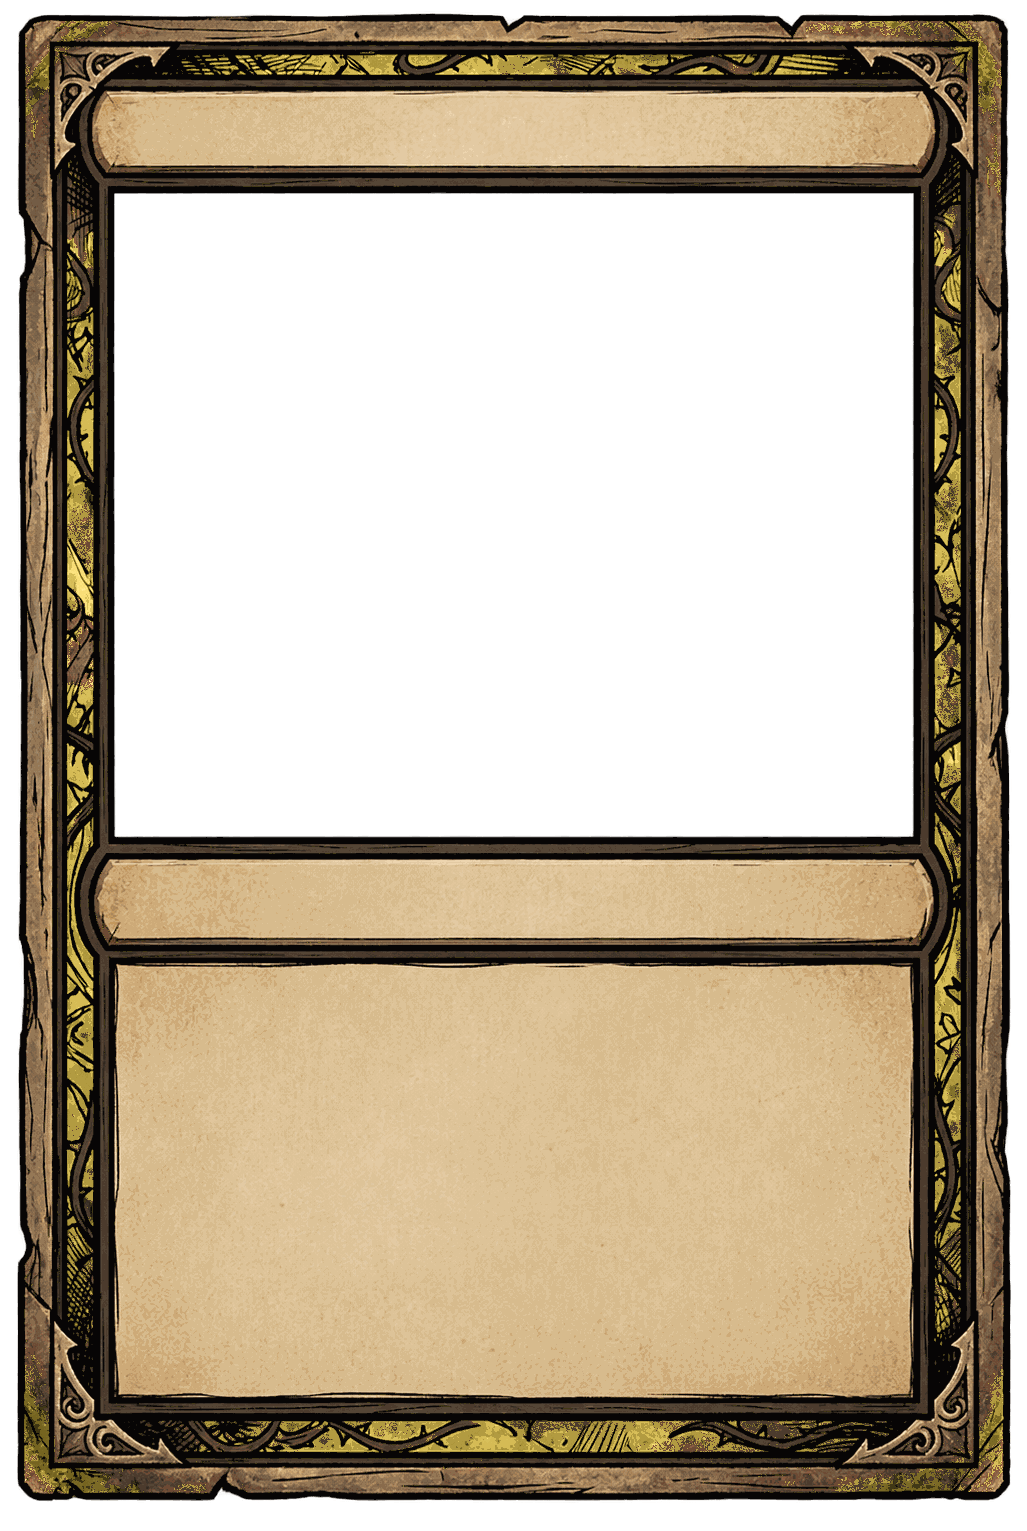
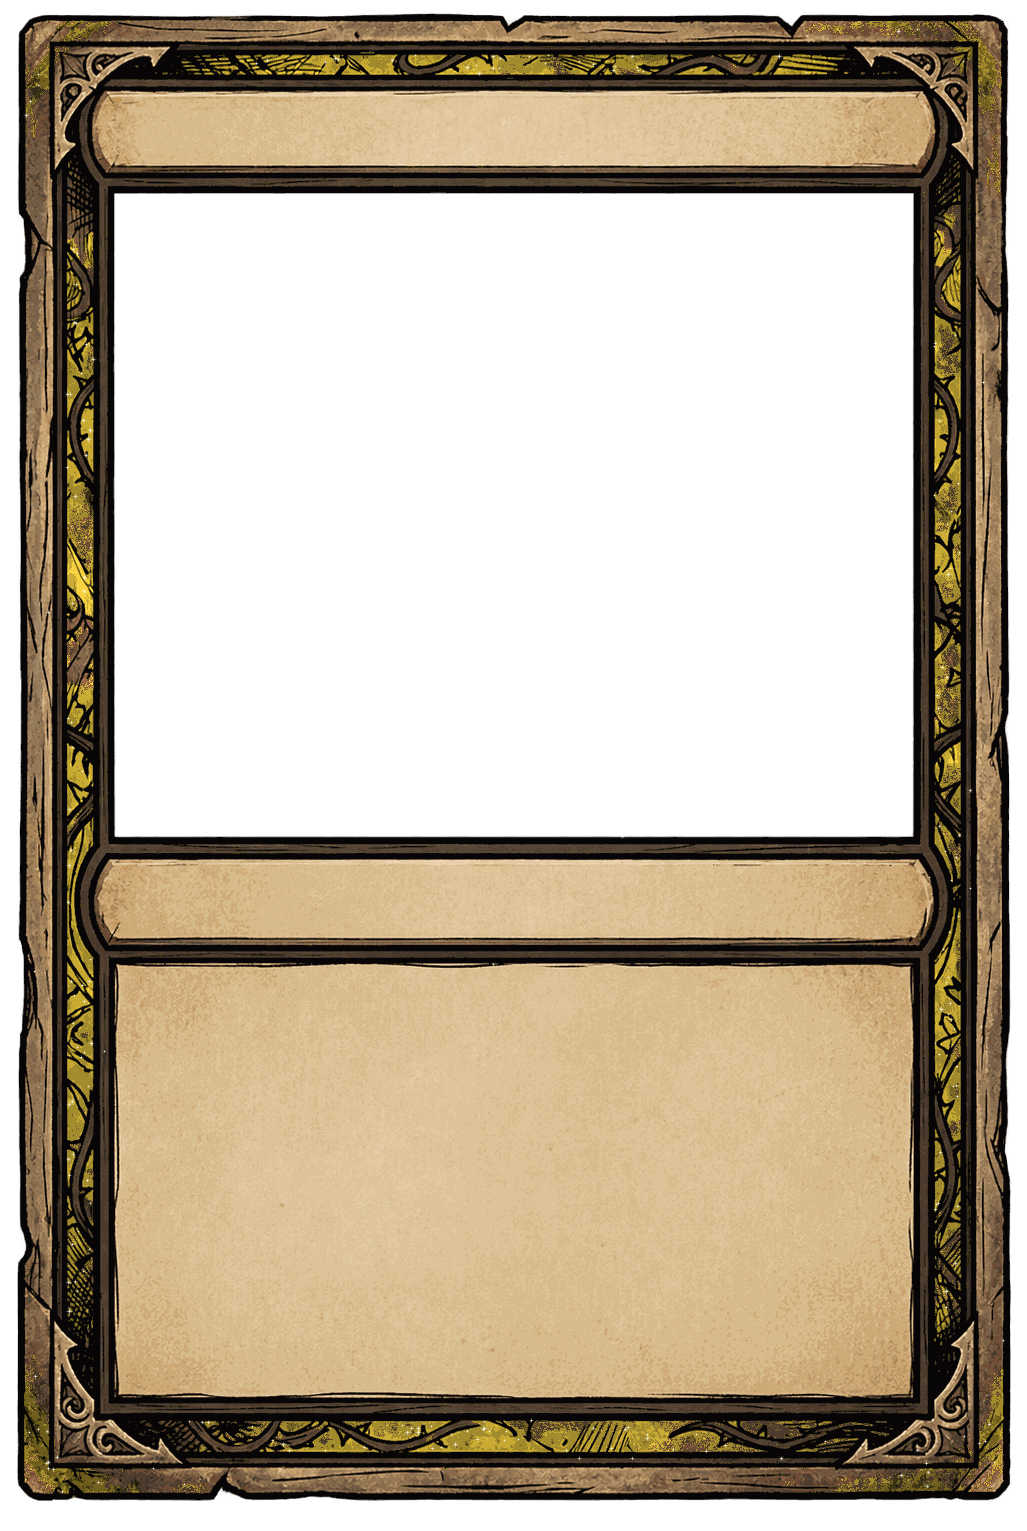
feat(taller): destellos de gema en elite y legendaria, fuera el resplandor
El brillo anterior era un resplandor suave repartido por toda la franja, y
eso solo hace el oro mas palido. Ivan pedia brillo de diamantes: puntos de
luz separados.

Ahora se siembran chispas —nucleo claro y cuatro brazos que se apagan, con
unas pocas grandes y el resto polvo— solo sobre pixeles de la franja de
espinas, asi que madera, pergamino y ventana transparente quedan intactos.
La legendaria lleva mas del doble que la elite: es el escalon de arriba.

Dos trampas por el camino:

Requantizar tras sembrar reconstruye la paleta entera y desviaba el color
de TODOS los marcos —la trampa salia marron en vez de roja—. Ahora solo los
que llevan destellos salen de la paleta, a RGBA; los demas conservan su
color exacto.

Y la medicion de control usaba indices de paleta, que en RGBA ya no
significan nada, asi que daba numeros falsos para justo los dos marcos que
habia cambiado. Se mide antes de sembrar.

Los dos con destellos pesan ~660 KB en vez de 278, pero se cargan bajo
demanda y solo cuando toca esa rareza.

diff --git a/public/taller/index.html b/public/taller/index.html
@@ -8,8 +8,8 @@
      cachea. Por eso las referencias van con ?v=: al cambiar el numero, el
      navegador se trae la version nueva sin que nadie tenga que vaciar la
      cache. HAY QUE SUBIRLO al tocar cualquiera de esos ficheros. -->
-<link rel="stylesheet" href="css/styles.css?v=20260920">
-<link rel="stylesheet" href="css/theme-web.css?v=20260920">
+<link rel="stylesheet" href="css/styles.css?v=20260921">
+<link rel="stylesheet" href="css/theme-web.css?v=20260921">
 
 <div class="app">
 
@@ -389,4 +389,4 @@
 </div>
 
 <div id="toast" class="toast"></div>
-<script src="js/app.js?v=20260920"></script>
+<script src="js/app.js?v=20260921"></script>

diff --git a/public/taller/js/app.js b/public/taller/js/app.js
@@ -1252,7 +1252,7 @@
     };
     // Si falta el fichero no pasa nada: se queda con el marco base.
     im.onerror = () => {};
-    im.src = `images/marcos/marco-${tipo}.png?v=20260920`;
+    im.src = `images/marcos/marco-${tipo}.png?v=20260921`;
   }
   /**
    * Clave de layout EFECTIVA: la del marco que realmente se está pintando.
@@ -2465,6 +2465,6 @@
       draw();
     };
     im.onerror = () => {};
-    im.src = 'images/marco.png?v=20260920';   // ver la nota del ?v= en index.html
+    im.src = 'images/marco.png?v=20260921';   // ver la nota del ?v= en index.html
   })();
 })();

diff --git a/herramientas/generar-marcos.py b/herramientas/generar-marcos.py
@@ -14,6 +14,7 @@ entre todos los pares para que no vuelva a colarse una colision.
 import colorsys
 import itertools
 import os
+import random
 import sys
 
 from PIL import Image, ImageDraw
@@ -31,18 +32,18 @@ SC = r'C:\Users\ivmab\AppData\Local\Temp\claude\C--Users-ivmab-Documents-Taponaz
 # sin ese techo el optimizador saca verdes lima que separan de maravilla y no
 # son este juego. Minima resultante: 36 sobre 255.
 PALETA = {
-    # tono · saturacion · luz · brillo
-    'comun':      (95,  0.50, 0.88, 0.0),   # verde, mas oscuro: la humilde no compite con el oro
-    'elite':      (45,  0.70, 1.25, 0.55),  # ORO con luz
-    'legendaria': (48,  0.80, 1.45, 1.00),  # ORO RADIANTE: el escalon de arriba
-    'spell':      (285, 0.52, 1.10, 0.0),   # morado
-    'trap':       (2,   0.60, 0.85, 0.0),   # rojo sangre, oscuro
-    'wall':       (35,  0.05, 1.20, 0.0),   # PIEDRA: gris neutro
-    'weapon':     (212, 0.55, 0.70, 0.0),   # acero, azul oscuro
-    'hero':       (18,  0.50, 1.30, 0.0),   # teja
-    'heraldo':    (30,  0.10, 0.75, 0.0),   # carbon
-    'pacto':      (162, 0.55, 1.00, 0.0),   # verde azulado
-    'evento':     (330, 0.55, 1.15, 0.0),   # vino
+    # tono · saturacion · luz · destellos
+    'comun':      (95,  0.50, 0.88, 0),    # verde: la humilde, sin adornos
+    'elite':      (45,  0.70, 1.25, 90),   # ORO con destellos
+    'legendaria': (48,  0.80, 1.45, 220),  # ORO y el doble de destellos
+    'spell':      (285, 0.52, 1.10, 0),    # morado
+    'trap':       (2,   0.60, 0.85, 0),    # rojo sangre, oscuro
+    'wall':       (35,  0.05, 1.20, 0),    # PIEDRA: gris neutro
+    'weapon':     (212, 0.55, 0.70, 0),    # acero, azul oscuro
+    'hero':       (18,  0.50, 1.30, 0),    # teja
+    'heraldo':    (30,  0.10, 0.75, 0),    # carbon
+    'pacto':      (162, 0.55, 1.00, 0),    # verde azulado
+    'evento':     (330, 0.55, 1.15, 0),    # vino
 }
 
 im = Image.open(ORIG)
@@ -55,12 +56,8 @@ sel = [i for i in range(254)
        if (h * 360 < 20 or h * 360 >= 340) and s >= 0.25 and v >= 0.12]
 
 
-def recolorear(tono, sat, luz, brillo=0.0):
-    """brillo levanta SOLO los realces y les quita color, que es como se ve
-    la luz sobre el metal: la sombra sigue siendo oro y el brillo tira a
-    blanco. Subir el valor entero, en cambio, solo hace el oro mas palido."""
+def recolorear(tono, sat, luz):
     nuevo = pal[:]
-    vmax = max(colorsys.rgb_to_hsv(*[c / 255 for c in pal[i * 3:i * 3 + 3]])[2] for i in sel)
     for i in sel:
         _, s, v = colorsys.rgb_to_hsv(*[c / 255 for c in pal[i * 3:i * 3 + 3]])
         # La saturacion sale de la pedida, modulada por la del pixel para no
@@ -68,11 +65,6 @@ def recolorear(tono, sat, luz, brillo=0.0):
         # conserva el sombreado y a la vez separa familias de color.
         s2 = min(1.0, sat * (0.55 + 0.6 * s))
         v2 = max(0.0, min(1.0, v * luz))
-        if brillo > 0:
-            # Cuanto mas claro era el pixel, mas le pega la luz.
-            k = (v / vmax) ** 2.2 * brillo
-            v2 = min(1.0, v2 + k * (1.0 - v2) * 0.95)
-            s2 = s2 * (1.0 - 0.75 * k)
         nr, ng, nb = colorsys.hsv_to_rgb(tono / 360, s2, v2)
         nuevo[i * 3:i * 3 + 3] = [int(round(x * 255)) for x in (nr, ng, nb)]
     c = im.copy()
@@ -81,18 +73,82 @@ def recolorear(tono, sat, luz, brillo=0.0):
     return c
 
 
+def sembrar_destellos(img, cuantos, semilla=7):
+    """Chispas de gema sobre la franja de espinas: un nucleo blanco y cuatro
+    brazos que se apagan. No es un resplandor suave repartido por todo —eso
+    solo aclara el oro—: son puntos de luz separados, que es lo que brilla.
+
+    Solo se siembran sobre pixeles de la propia franja, asi la madera, el
+    pergamino y la ventana transparente quedan intactos.
+    """
+    if not cuantos:
+        return img.convert('RGBA')
+
+    idx = img.convert('P').load()
+    out = img.convert('RGBA')
+    px = out.load()
+    W, H = out.size
+    rnd = random.Random(semilla)
+
+    puestos = 0
+    intentos = 0
+    while puestos < cuantos and intentos < cuantos * 400:
+        intentos += 1
+        x = rnd.randrange(4, W - 4)
+        y = rnd.randrange(4, H - 4)
+        if idx[x, y] not in sel:
+            continue
+
+        # Tamanos variados: unas pocas grandes mandan, el resto son polvo.
+        grande = rnd.random() < 0.18
+        brazo = rnd.choice([2, 3, 4]) if grande else rnd.choice([1, 2])
+        calor = rnd.uniform(0.85, 1.0)
+
+        def mezclar(cx, cy, fuerza):
+            if not (0 <= cx < W and 0 <= cy < H):
+                return
+            r, g, b, a = px[cx, cy]
+            if a == 0:
+                return
+            f = max(0.0, min(1.0, fuerza))
+            # Hacia blanco calido, no hacia blanco puro: es oro, no un flash.
+            px[cx, cy] = (int(r + (255 - r) * f),
+                          int(g + (252 - g) * f),
+                          int(b + (228 - b) * f), a)
+
+        mezclar(x, y, calor)
+        for d in range(1, brazo + 1):
+            f = calor * (1 - d / (brazo + 1)) ** 1.6
+            mezclar(x + d, y, f); mezclar(x - d, y, f)
+            mezclar(x, y + d, f); mezclar(x, y - d, f)
+        if grande:
+            for d in (1, 2):
+                f = calor * 0.28 / d
+                mezclar(x + d, y + d, f); mezclar(x - d, y - d, f)
+                mezclar(x + d, y - d, f); mezclar(x - d, y + d, f)
+        puestos += 1
+    return out
+
+
 os.makedirs(DEST, exist_ok=True)
 medias = {}
 
-for clave, (tono, sat, luz, brillo) in PALETA.items():
-    img = recolorear(tono, sat, luz, brillo)
+for clave, (tono, sat, luz, destellos) in PALETA.items():
+    img = recolorear(tono, sat, luz)
+    base_paleta = img          # se mide ANTES: en RGBA los indices ya no valen
+    if destellos:
+        # Con destellos hay que salir de la paleta: las chispas son colores
+        # que no existen en ella. Se guarda en RGBA y punto — requantizar
+        # reconstruye la paleta entera y desviaba el color de TODO el marco
+        # (la trampa salia marron en vez de roja).
+        img = sembrar_destellos(img, destellos)
     img.save(os.path.join(DEST, f'marco-{clave}.png'), optimize=True)
 
     # Media del fondo de las espinas. Solo cuentan los pixeles que pertenecen
     # a esa franja: medir el rectangulo entero mete madera y tinta, que son
     # iguales en los once y diluyen las diferencias hasta esconderlas.
-    idx = img.convert('P').load()
-    rgb = img.convert('RGB')
+    idx = base_paleta.convert('P').load()
+    rgb = base_paleta.convert('RGB')
     r = g = b = n = 0
     for y in range(400, 1200, 8):
         for x in range(40, 95, 2):
